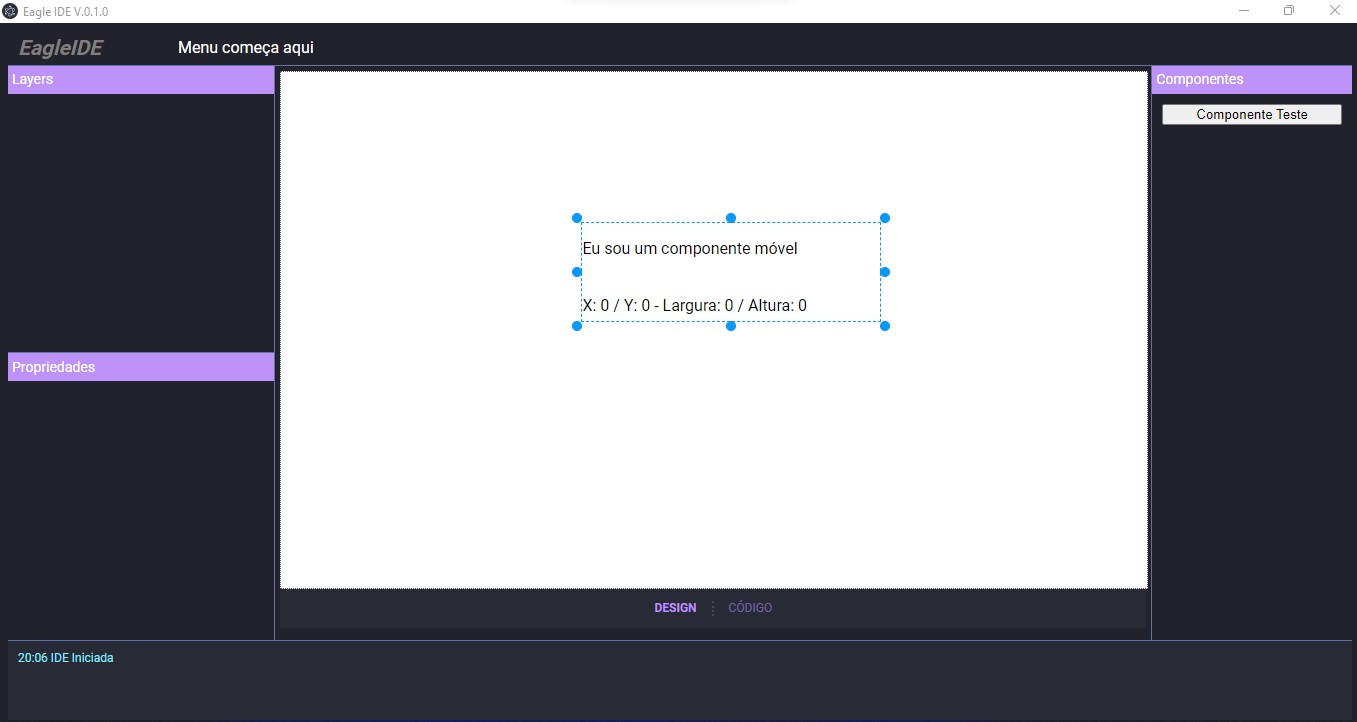
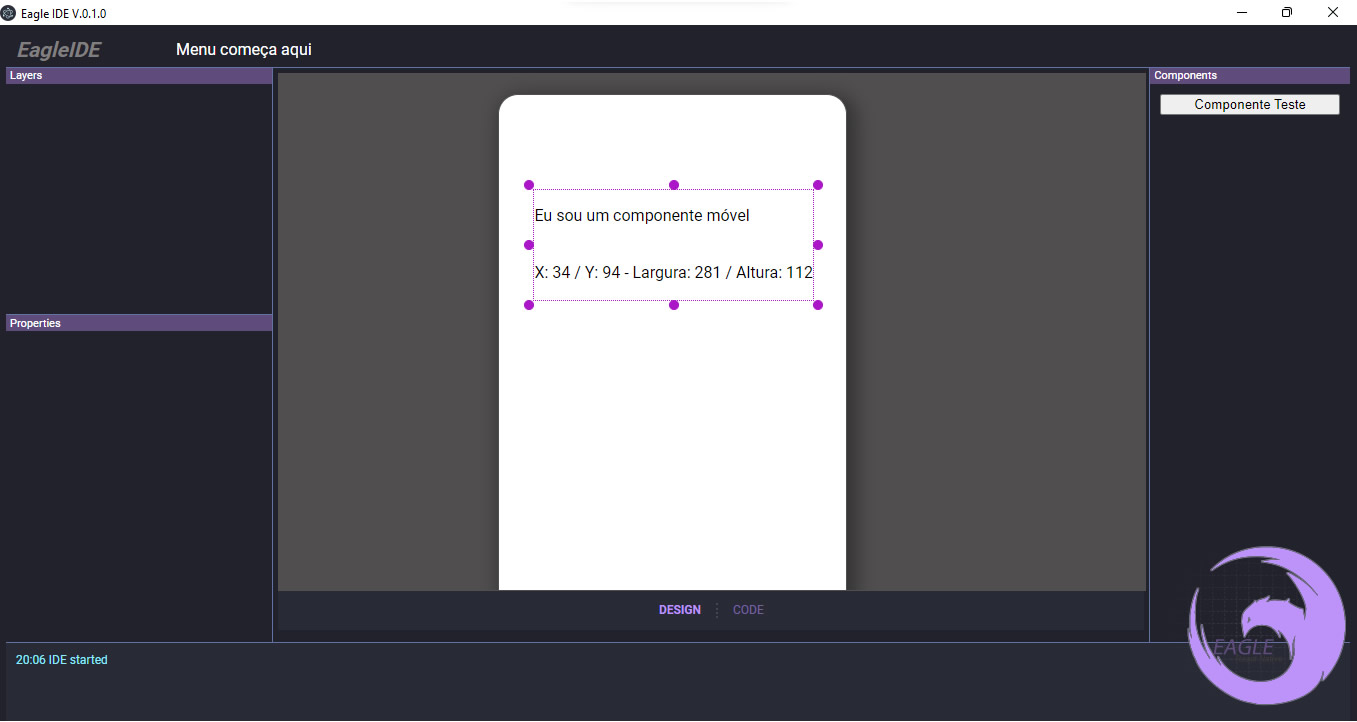
Ajuste no canvas

diff --git a/src/components/canvas/index.vue b/src/components/canvas/index.vue
@@ -50,7 +50,7 @@ export default {
     };
   },
   methods: {
-    handleCanvasClick: function () {
+    handleCanvasClick: function() {
       alert("CARREGA PROPRIEDADES DO CANVAS");
     },
 
@@ -72,6 +72,7 @@ export default {
   mounted: function() {
     this.panzoom = Panzoom(document.getElementById("canvas"), {
       maxScale: 5,
+      minScale: 1,
       panOnlyWhenZoomed: false,
       excludeClass: "movel",
       cursor: "grab",
@@ -107,9 +108,12 @@ export default {
   background-color: #fff;
   width: 40%;
   overflow: hidden;
-  border: 1px dotted rgb(80, 78, 78);
+  border: 1px solid rgb(80, 78, 78);
   color: black;
   position: relative;
+  border-radius: 20px;
+  -webkit-box-shadow: 5px 5px 18px 5px rgba(0, 0, 0, 0.35);
+  box-shadow: 5px 5px 18px 5px rgba(0, 0, 0, 0.35);
 }
 
 .movel {

diff --git a/src/components/canvas/VueDraggableResizable.css b/src/components/canvas/VueDraggableResizable.css
@@ -1,6 +1,6 @@
 .vdr {
   touch-action: none;
-  border: 1px dashed rgb(6, 152, 250);
+  border: 1px dotted #ab16c9;
 }
 
 .handle,
@@ -12,8 +12,8 @@
 .handle {
   width: 10px;
   height: 10px;
-  background: rgb(6, 152, 250);
-  border: 1px solid rgb(6, 152, 250);
+  background: #ab16c9;
+  border: 1px solid #ab16c9;
 }
 
 .handle-tl {
